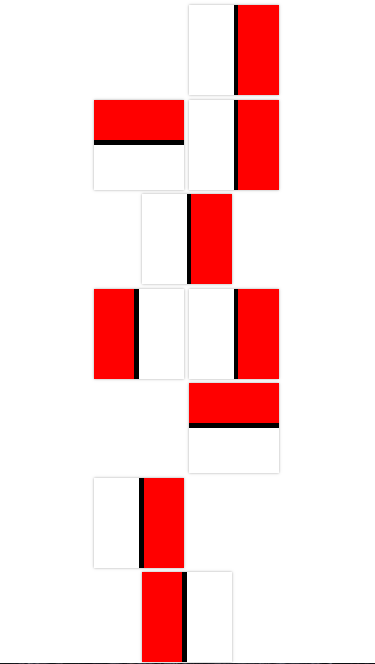
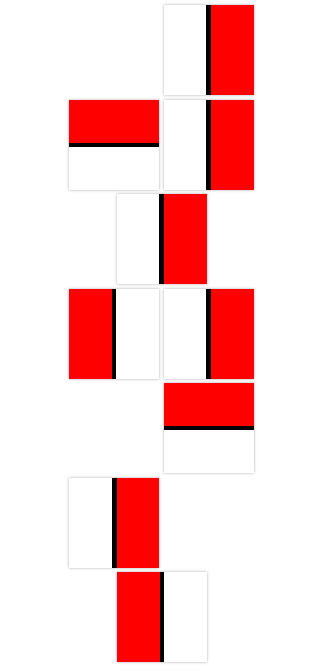
update styles and screenshot

diff --git a/style.css b/style.css
@@ -41,22 +41,11 @@
 	justify-content: space-between;
 }
 
-.frame5,
-.frame9
-{
-	transform: rotate(180deg);
-}
-
-.frame2,
-.frame7
-{
-	transform: rotate(270deg);
-}
-
 .black
 {
 	position: absolute;
-	left: 50%;
+	left: 47.4%;
+	z-index: 3;
 
 	width: 5px;
 	height: 100px;
@@ -76,4 +65,21 @@
 	background: #fff;
 
 	content: '';
+}
+
+.frame5,
+.frame9
+{
+	transform: rotate(180deg);
+}
+
+.frame2,
+.frame7
+{
+	transform: rotate(270deg);
+}
+
+.frame8 .black
+{
+	left: 47.6%;
 }
